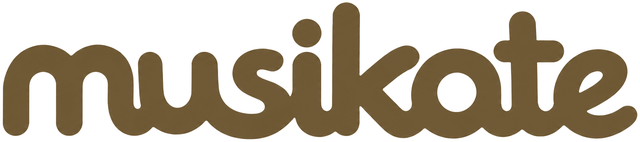
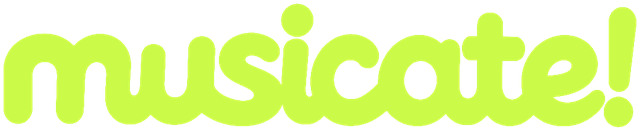
feat: actualiza el wordmark neón en Inicio

diff --git a/src/app/(tabs)/index.tsx b/src/app/(tabs)/index.tsx
@@ -102,10 +102,6 @@ function ParaTiContent({ onSeeNovedades }: { onSeeNovedades: () => void }) {
 }
 
 const styles = StyleSheet.create({
-  logo: {
-    width: 112,
-    height: 44,
-  },
   header: {
     alignItems: 'center',
     justifyContent: 'center',
@@ -113,8 +109,8 @@ const styles = StyleSheet.create({
     paddingBottom: spacing.xl,
   },
   wordmark: {
-    width: 200,
-    height: 44,
+    width: 240,
+    height: 49,
   },
   segmented: {
     flexDirection: 'row',
